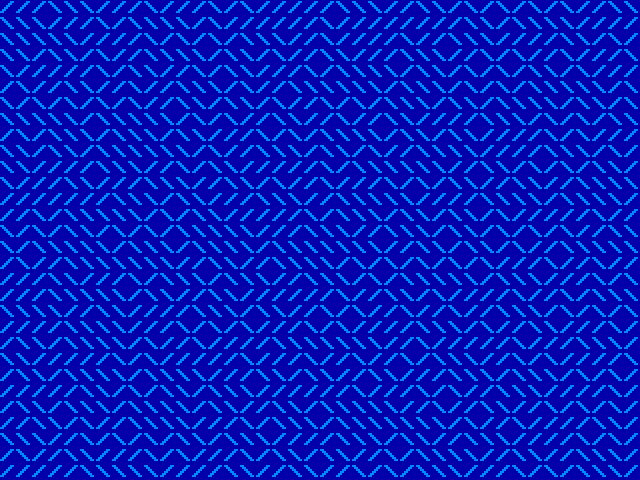
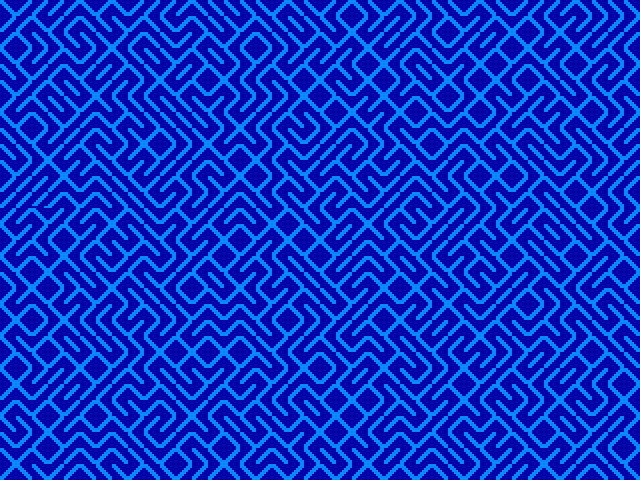
The diagonal is the C64s own glyph, and the maze joins up
## Why it was broken

CP437 has no diagonals where PETSCII has 205 and 206, so the text
version drew `/` and `\` at 47 and 92. **Those glyphs have side
bearing**: they stop short of the cell edge, so every join in the maze
broke and the picture was a field of dashes rather than a maze. The text
font is 4 KB of EBR read by the hardware -- ROM, not redefinable -- so
mode 1 could not be fixed, only left.

Mode 2 is the same 40x30 geometry with the pattern in RAM. Same square
16x16 cells, same C64 palette in bank 0, same blue paper and light blue
ink; the only thing that changes is where the glyph comes from.

## The glyph is transcribed, not drawn

Screen code 77 out of the character ROM, pixel for pixel. **Drawing it
by hand got it wrong twice** -- once one pixel wide, once a guess at two
-- and the real glyph is two and three pixels wide and reaches both
corners, which is exactly the property the maze needs and exactly the
property a guess loses.

Code 78 is its exact horizontal mirror. That was checked against the ROM
rather than assumed, and it holds, so attribute bit 6 draws the other
diagonal and one 32-byte tile serves both.

Read from mobluse/chargen-maker chargen.txt, which is the ROM as text
art; character 1 is `A` in screen-code order, which is what says the
file is what it claims to be before character 77 is trusted.

Gates: 19 suites, check 7.

diff --git a/docs/14-demos.md b/docs/14-demos.md
@@ -68,26 +68,33 @@ and `RND` picks between them.
 
 ![10 PRINT](img/demo-10print.png)
 
-**Mode 1: text, forty columns.** Mode 0's 80×30 cells are 8 wide by 16
-high, so a diagonal drawn in one is not at 45° and the maze comes out
-sheared. Mode 1 halves the columns and a cell becomes 16×16 — square,
-and the diagonals meet.
+**Forty columns, because the cell has to be square.** Mode 0's 80×30
+cells are 8 wide by 16 high, so a diagonal drawn in one is not at 45°
+and the maze comes out sheared. Forty columns makes the cell 16×16.
 
-**Our font is CP437** ([`tools/mkfont.py`](../tools/mkfont.py)), which
-has no `╱` and `╲` where PETSCII has 205 and 206. It has `/` and `\` at
-47 and 92, and `47 + 45*RND(2)` picks between them exactly as the
-original's `205.5 + RND(1)` did.
+**It is tile mode, and that is not a preference.** The text version was
+written first, in mode 1, drawing CP437's `/` and `\` at 47 and 92 with
+`47 + 45*RND(2)` standing in for `205.5 + RND(1)`. It was wrong on the
+screen: **those glyphs have side bearing.** They stop short of the cell
+edge, so every join in the maze is broken and the picture is a field of
+dashes. The text font is 4 KB of EBR read by the hardware — ROM, not
+redefinable — so there is no fixing it in mode 1. Mode 2 is the same
+40×30 geometry with the pattern in RAM, which is the whole difference.
+
+**The tile is C64 screen code 77, pixel for pixel.** Transcribed from
+the character ROM rather than drawn by hand, and drawing it by hand got
+it wrong twice: the real glyph is two and three pixels wide, not one,
+and it reaches both corners. Code 78 is its exact horizontal mirror —
+checked, not assumed — so **attribute bit 6 draws the other diagonal and
+one 32-byte tile serves both**, which is why the `DATA` is four lines
+and not eight.
 
 **The palette is the C64's, copied.** Bank 0 is overwritten entry for
 entry from a `DATA` table of RGB444 pairs, so 6 is `#0000AA` and 14 is
 `#0088FF` — the same numbers a C64 program means when it says 6 and 14
 ([`tools/palette.py`](../tools/palette.py) bank 10 is the same set, kept
-in the C64's own index order for the same reason). Attribute `$6E` is
-background 6, foreground 14: blue paper, light blue ink.
-
-It fills the map directly through `VID_BASE` rather than `PRINT`ing,
-because the console writes its own attribute and the attribute is where
-the colour lives.
+in the C64's own index order for the same reason). The tile is drawn in
+those two indices directly: paper 6, ink 14.
 
 ## 5. Adding one
 
